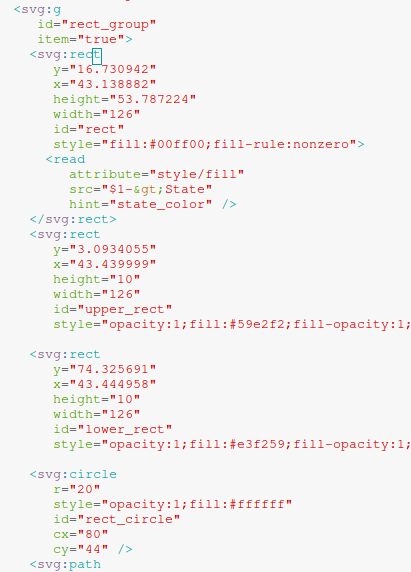
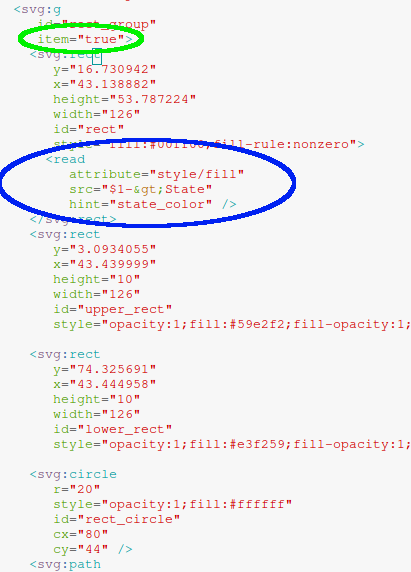
documentation

diff --git a/src/qusvg.h b/src/qusvg.h
@@ -40,15 +40,36 @@ class QuGraphicsSvgItem;
  * \subsection cumbia_connect Connect to sources
  * Each property of a svg object can be *connected* to a cumbia *source*.
  * The connection can be directly defined in the *svg* file, by introducing a
- * *<link>* element as *direct child* of the target element.
- * The *<link>* element will contain the following attributes
+ * *<read>* element as *direct child* of the target element.
+ * The *<read>* element will contain the following attributes
  * - *src* (compulsory): specifies the name of the source of data
  * - *attribute*: specifies the *target attribute* in the *parent* that will be changed
  *   upon new data from *src*.
+ *
+ * \image html svg_read_src.png "Fig. 1 - Readers definition in the svg file"
+ * \image latex svg_read_src.png "Fig. 1 - Readers definition in the svg file"  width=12cm
+ *
+ * \image html svg_read.png "Fig. 2 - SVG items connected to Tango sources"
+ * \image latex svg_read.png "Fig. 2 - SVG items connected to Tango sources"  width=12cm
+ *
+ *
  * If *attribute* is missing, then it must be clear from the context what is the
  * target of the data update *in the parent*, for example, the parent is a *<text>*
  * node.
- * Please see also QuSvgLink::isValid
+ *
+ * For example, in the svg source snippet below
+ *
+ * \image html svg_text_read_src.png "Sources connected to <text> nodes"
+ * \image latex svg_text_read_src.png "Sources connected to <text> nodes"  width=12cm
+ *
+ * it is easy for *cumbia-svg* to understand that the value of *long_scalar* will
+ * update the text node child of <svg:text> with id *ducktext*.
+ *
+ * In a similar way, under the *<read>* node, the *hint=state_color*
+ * linked to the *style/fill* target attribute in Fig. 1 will update
+ * the *fill color* of the parent *<rect>*.
+ *
+ * Please see also QuSvgReadLink::isValid
  *
  * \subsubsection src_names Source names
  * Source names must be conform to the syntax understood by the available engines,
